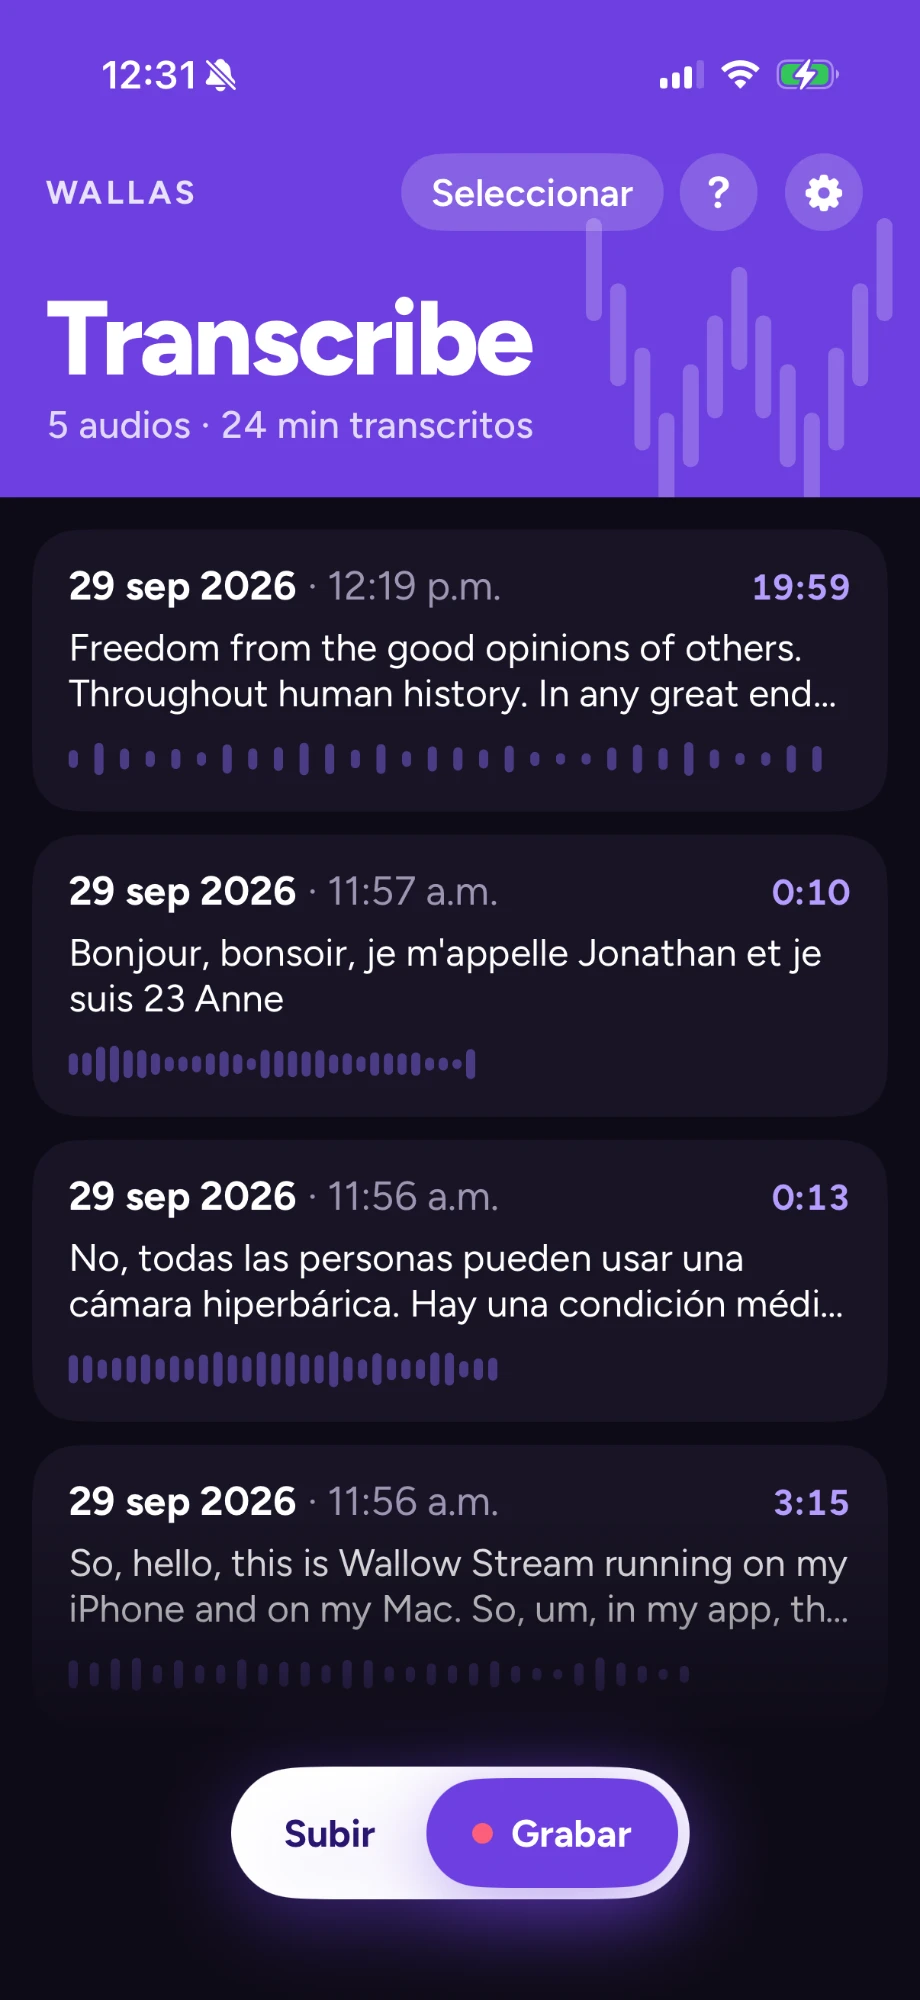
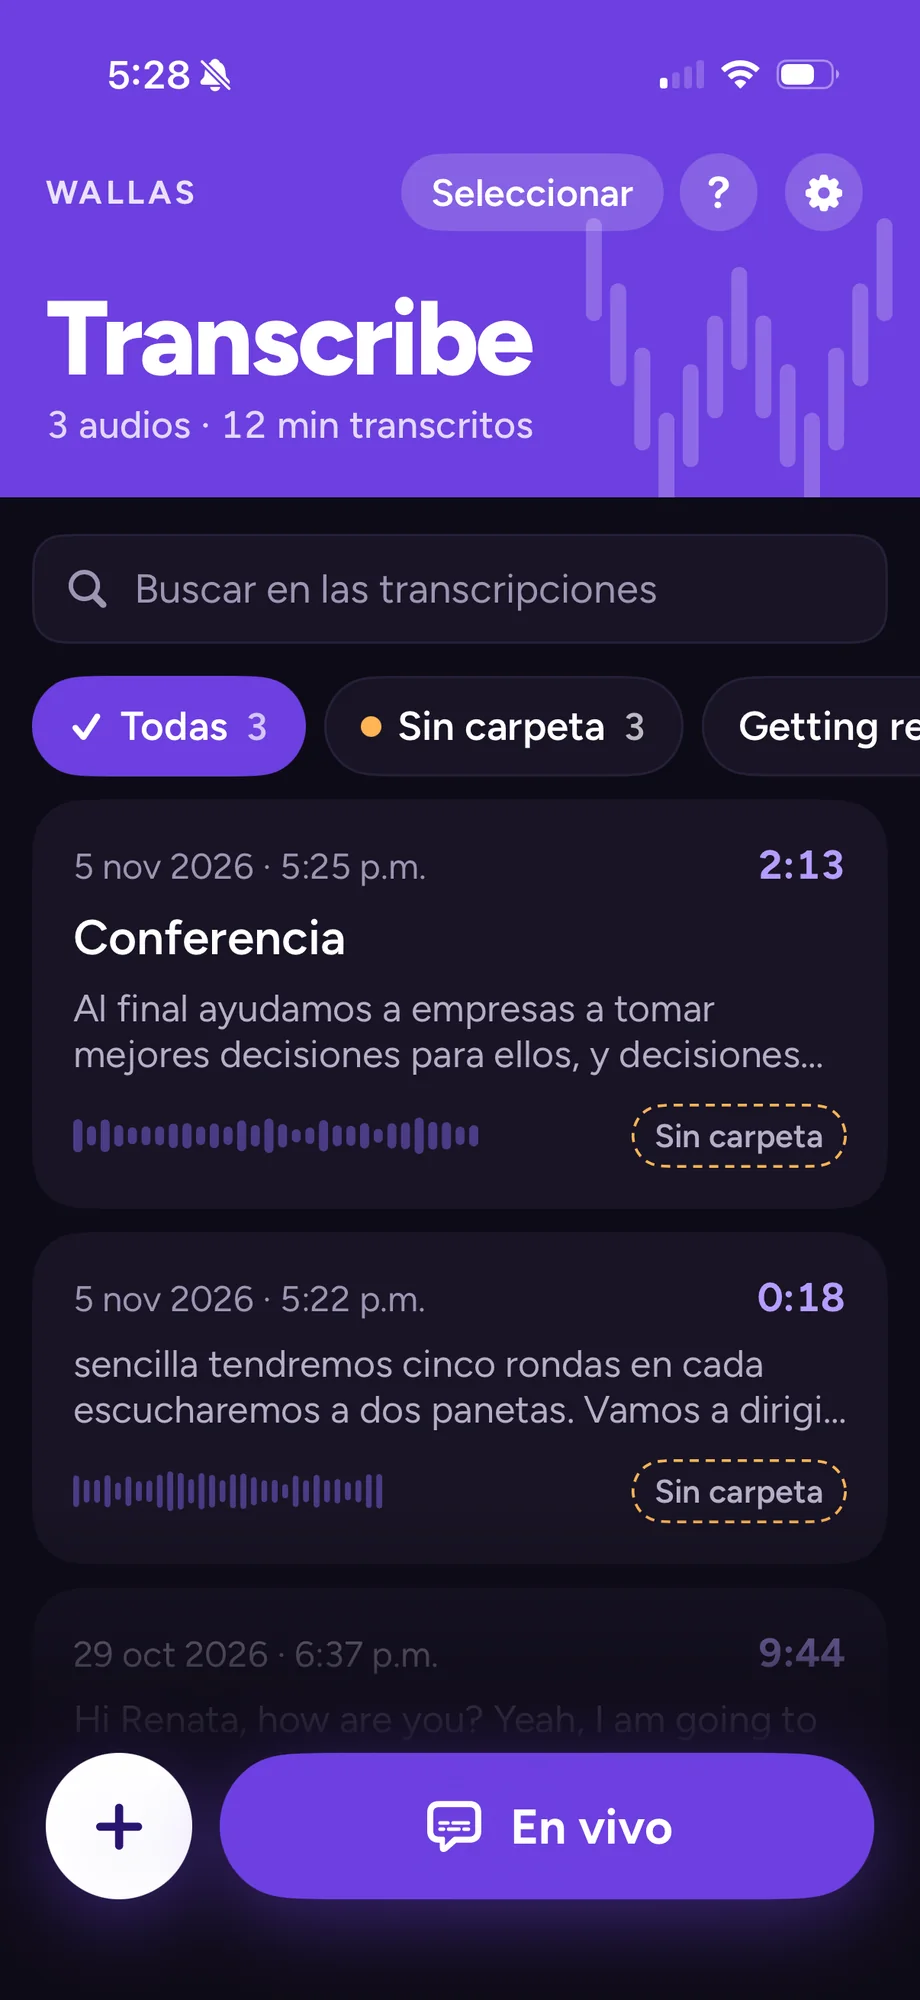
Actualiza capturas y agrega la sección En vivo
- Nuevas capturas de "Míralo en acción" (inicio, En vivo y texto guardado),
  con versión en inglés que cambia según el idioma.
- Textos alternativos actualizados.
- Nueva sección "Lee lo que se dice, en vivo" con traducción, pantalla
  bloqueada y opción de guardar solo el texto.
- Tarjeta de carpetas y búsqueda en Lectura.

Claude-Session: https://claude.ai/code/session_01VbTnA2ULdtRmXPJmAzyAni

diff --git a/index.html b/index.html
@@ -4,7 +4,7 @@
   <meta charset="utf-8">
   <meta name="viewport" content="width=device-width, initial-scale=1">
   <title>Wallas Transcribe - Lee tus notas de voz</title>
-  <meta name="description" content="App gratis para iPhone que convierte notas de voz y audios en texto. Hecha para personas con implante coclear o auxiliares auditivos. Privada y sin anuncios.">
+  <meta name="description" content="App gratis para iPhone que convierte notas de voz, audios y conversaciones en vivo en texto, con traducción al instante. Hecha para personas con implante coclear o auxiliares auditivos. Privada y sin anuncios.">
   <meta name="color-scheme" content="light dark">
   <meta name="theme-color" content="#F6F4FA" media="(prefers-color-scheme: light)">
   <meta name="theme-color" content="#0E0B17" media="(prefers-color-scheme: dark)">
@@ -14,7 +14,7 @@
   <link rel="preconnect" href="https://fonts.gstatic.com" crossorigin>
   <link rel="stylesheet" href="https://fonts.googleapis.com/css2?family=Figtree:wght@400..800&display=swap">
   <link rel="stylesheet" href="styles.css?v=4">
-  <script src="lang.js?v=4"></script>
+  <script src="lang.js?v=5"></script>
 </head>
 <body>
   <a class="skip" href="#contenido"><span class="es">Saltar al contenido</span><span class="en">Skip to content</span></a>
@@ -41,8 +41,8 @@
         <div class="stack hero-text">
           <p class="eyebrow reveal"><span class="es">App gratis para iPhone</span><span class="en">Free iPhone app</span></p>
           <h1 class="reveal" style="--d:1"><span class="es">Lee tus <span class="hl">notas de voz.</span></span><span class="en">Read your <span class="hl">voice notes.</span></span></h1>
-          <p class="lead es reveal" style="--d:2">Wallas Transcribe convierte audios en texto dentro de tu iPhone. Para personas con implante coclear o auxiliares auditivos. Privada y sin anuncios.</p>
-          <p class="lead en reveal" style="--d:2">Wallas Transcribe turns audio into text right on your iPhone. Made for people with cochlear implants or hearing aids. Private, with no ads.</p>
+          <p class="lead es reveal" style="--d:2">Wallas Transcribe convierte audios y conversaciones en vivo en texto dentro de tu iPhone, y los traduce al instante. Para personas con implante coclear o auxiliares auditivos. Privada y sin anuncios.</p>
+          <p class="lead en reveal" style="--d:2">Wallas Transcribe turns audio and live conversations into text right on your iPhone, and translates them instantly. Made for people with cochlear implants or hearing aids. Private, with no ads.</p>
           <p class="reveal" style="--d:3">
             <!-- REEMPLAZA: app-store-badge.svg por el distintivo oficial de Apple. Cambia href="#" por el enlace de tu app. -->
             <a class="badge-link" href="#"><img src="app-store-badge.svg" width="180" height="60" alt="Descargar en la App Store" data-alt-en="Download on the App Store"></a>
@@ -126,21 +126,58 @@
       </div>
     </section>
 
-    <section aria-labelledby="capturas">
+    <section aria-labelledby="en-vivo">
+      <div class="wrap">
+        <div class="intro reveal">
+          <p class="eyebrow"><span class="es">Nuevo: En vivo</span><span class="en">New: Live</span></p>
+          <h2 id="en-vivo"><span class="es">Lee lo que se dice, en vivo</span><span class="en">Read what’s said, live</span></h2>
+          <p class="lead es">En una plática, una clase o una conferencia, ve el texto mientras la persona habla.</p>
+          <p class="lead en">In a conversation, a class or a talk, see the text while the person is speaking.</p>
+        </div>
+        <ul class="cards cards-2">
+          <li class="card reveal" style="--d:0">
+            <span class="tile"><svg class="i" viewBox="0 0 24 24" aria-hidden="true" focusable="false"><path d="M4 5h16v11H9l-5 4z"/><path d="M8 9h8M8 12h5"/></svg></span>
+            <h3><span class="es">Subtítulos en vivo</span><span class="en">Live captions</span></h3>
+            <p class="es">La frase que se está diciendo aparece en grande, al momento.</p>
+            <p class="en">The sentence being spoken shows up in large text, right away.</p>
+          </li>
+          <li class="card reveal" style="--d:1">
+            <span class="tile"><svg class="i" viewBox="0 0 24 24" aria-hidden="true" focusable="false"><path d="M4 5h8M8 3v2M10 5c0 4-2.5 7-6 8M6 9c1 2 3 3.5 5 4"/><path d="M13 21l4-10 4 10M14.5 17.5h5"/></svg></span>
+            <h3><span class="es">Traducción al instante</span><span class="en">Instant translation</span></h3>
+            <p class="es">Elige el idioma que se habla y a cuál traducir. Lee el original, la traducción o ambos.</p>
+            <p class="en">Choose the spoken language and the one to translate to. Read the original, the translation or both.</p>
+          </li>
+          <li class="card reveal" style="--d:2">
+            <span class="tile"><svg class="i" viewBox="0 0 24 24" aria-hidden="true" focusable="false"><rect x="5" y="11" width="14" height="10" rx="2"/><path d="M8 11V7a4 4 0 0 1 8 0v4"/></svg></span>
+            <h3><span class="es">Desde la pantalla bloqueada</span><span class="en">From the Lock Screen</span></h3>
+            <p class="es">Sigue la conversación sin desbloquear tu iPhone.</p>
+            <p class="en">Follow the conversation without unlocking your iPhone.</p>
+          </li>
+          <li class="card reveal" style="--d:3">
+            <span class="tile"><svg class="i" viewBox="0 0 24 24" aria-hidden="true" focusable="false"><path d="M4 4h12l4 4v12H4z"/><path d="M8 4v5h7V4M8 20v-6h8v6"/></svg></span>
+            <h3><span class="es">Tú decides qué guardar</span><span class="en">You decide what to keep</span></h3>
+            <p class="es">Guarda el audio y la transcripción, o solo el texto. Ponle título y elige una carpeta.</p>
+            <p class="en">Save the audio and the transcript, or just the text. Give it a title and pick a folder.</p>
+          </li>
+        </ul>
+      </div>
+    </section>
+
+    <section class="band" aria-labelledby="capturas">
       <div class="wrap">
         <div class="intro reveal">
           <p class="eyebrow"><span class="es">La app</span><span class="en">The app</span></p>
           <h2 id="capturas"><span class="es">Míralo en acción</span><span class="en">See it in action</span></h2>
         </div>
         <ul class="shots">
-          <li class="reveal" style="--d:0"><img src="captura-1.webp" width="920" height="2000" loading="lazy" alt="Pantalla principal de Wallas Transcribe con la lista de audios transcritos y los botones Subir y Grabar" data-alt-en="Wallas Transcribe home screen with the list of transcribed audio and the Upload and Record buttons"></li>
-          <li class="reveal" style="--d:1"><img src="captura-2.webp" width="920" height="2000" loading="lazy" alt="Texto de una transcripción con la frase que se está escuchando resaltada y los botones de pausa, copiar y compartir" data-alt-en="A transcription with the sentence being played highlighted, plus pause, copy and share buttons"></li>
-          <li class="reveal" style="--d:2"><img src="captura-3.webp" width="920" height="2000" loading="lazy" alt="Grabación en curso con el tiempo y el aviso: puedes salir de la app o bloquear el iPhone y sigue grabando" data-alt-en="Recording in progress with the timer and a note that you can leave the app or lock your iPhone and it keeps recording"></li>
+          <li class="reveal" style="--d:0"><img src="captura-1.webp" data-src-en="captura-1-en.webp" width="920" height="2000" loading="lazy" alt="Pantalla principal de Wallas Transcribe con el buscador, las carpetas y el botón En vivo" data-alt-en="Wallas Transcribe home screen with search, folders and the Live button"></li>
+          <li class="reveal" style="--d:1"><img src="captura-2.webp" data-src-en="captura-2-en.webp" width="920" height="2000" loading="lazy" alt="Transcripción en vivo de español a inglés, con la frase actual en grande y su traducción debajo" data-alt-en="Live transcription from Spanish to English, with the current sentence in large text and its translation below"></li>
+          <li class="reveal" style="--d:2"><img src="captura-3.webp" data-src-en="captura-3-en.webp" width="920" height="2000" loading="lazy" alt="Transcripción guardada con el texto en español y su traducción al inglés juntos" data-alt-en="Saved transcription showing the Spanish text and its English translation together"></li>
         </ul>
       </div>
     </section>
 
-    <section class="band" aria-labelledby="transcribe">
+    <section aria-labelledby="transcribe">
       <div class="wrap">
         <div class="intro reveal">
           <p class="eyebrow"><span class="es">Fuentes</span><span class="en">Sources</span></p>
@@ -169,7 +206,7 @@
       </div>
     </section>
 
-    <section aria-labelledby="graba">
+    <section class="band" aria-labelledby="graba">
       <div class="wrap">
         <div class="intro reveal">
           <p class="eyebrow"><span class="es">Grabación</span><span class="en">Recording</span></p>
@@ -204,7 +241,7 @@
       </div>
     </section>
 
-    <section class="band" aria-labelledby="leer">
+    <section aria-labelledby="leer">
       <div class="wrap">
         <div class="intro reveal">
           <p class="eyebrow"><span class="es">Lectura</span><span class="en">Reading</span></p>
@@ -241,11 +278,17 @@
             <p class="es">Compatible con el tamaño de texto de tu iPhone. Modo claro, oscuro o automático.</p>
             <p class="en">Supports your iPhone’s text size (Dynamic Type). Light, dark or automatic mode.</p>
           </li>
+          <li class="card reveal" style="--d:2">
+            <span class="tile"><svg class="i" viewBox="0 0 24 24" aria-hidden="true" focusable="false"><circle cx="10.5" cy="10.5" r="6"/><path d="M15 15l5 5"/></svg></span>
+            <h3><span class="es">Carpetas y búsqueda</span><span class="en">Folders and search</span></h3>
+            <p class="es">Ordena tus transcripciones en carpetas y busca cualquier palabra dentro de ellas.</p>
+            <p class="en">Sort your transcripts into folders and search for any word inside them.</p>
+          </li>
         </ul>
       </div>
     </section>
 
-    <section aria-labelledby="privada">
+    <section class="band" aria-labelledby="privada">
       <div class="wrap">
         <div class="panel reveal">
           <div class="panel-text">

diff --git a/lang.js b/lang.js
@@ -12,6 +12,13 @@
       if (!im.hasAttribute('data-alt-es')) im.setAttribute('data-alt-es', im.alt);
       im.alt = im.getAttribute('data-alt-' + l);
     }
+    var srcs = document.querySelectorAll('img[data-src-en]');
+    for (var k = 0; k < srcs.length; k++) {
+      var sm = srcs[k];
+      if (!sm.hasAttribute('data-src-es')) sm.setAttribute('data-src-es', sm.getAttribute('src'));
+      var ns = sm.getAttribute('data-src-' + l);
+      if (sm.getAttribute('src') !== ns) sm.setAttribute('src', ns);
+    }
     var ops = document.querySelectorAll('option[data-en]');
     for (var j = 0; j < ops.length; j++) ops[j].textContent = ops[j].getAttribute('data-' + l);
     try { localStorage.setItem('wt-lang', l); } catch (e) {}
